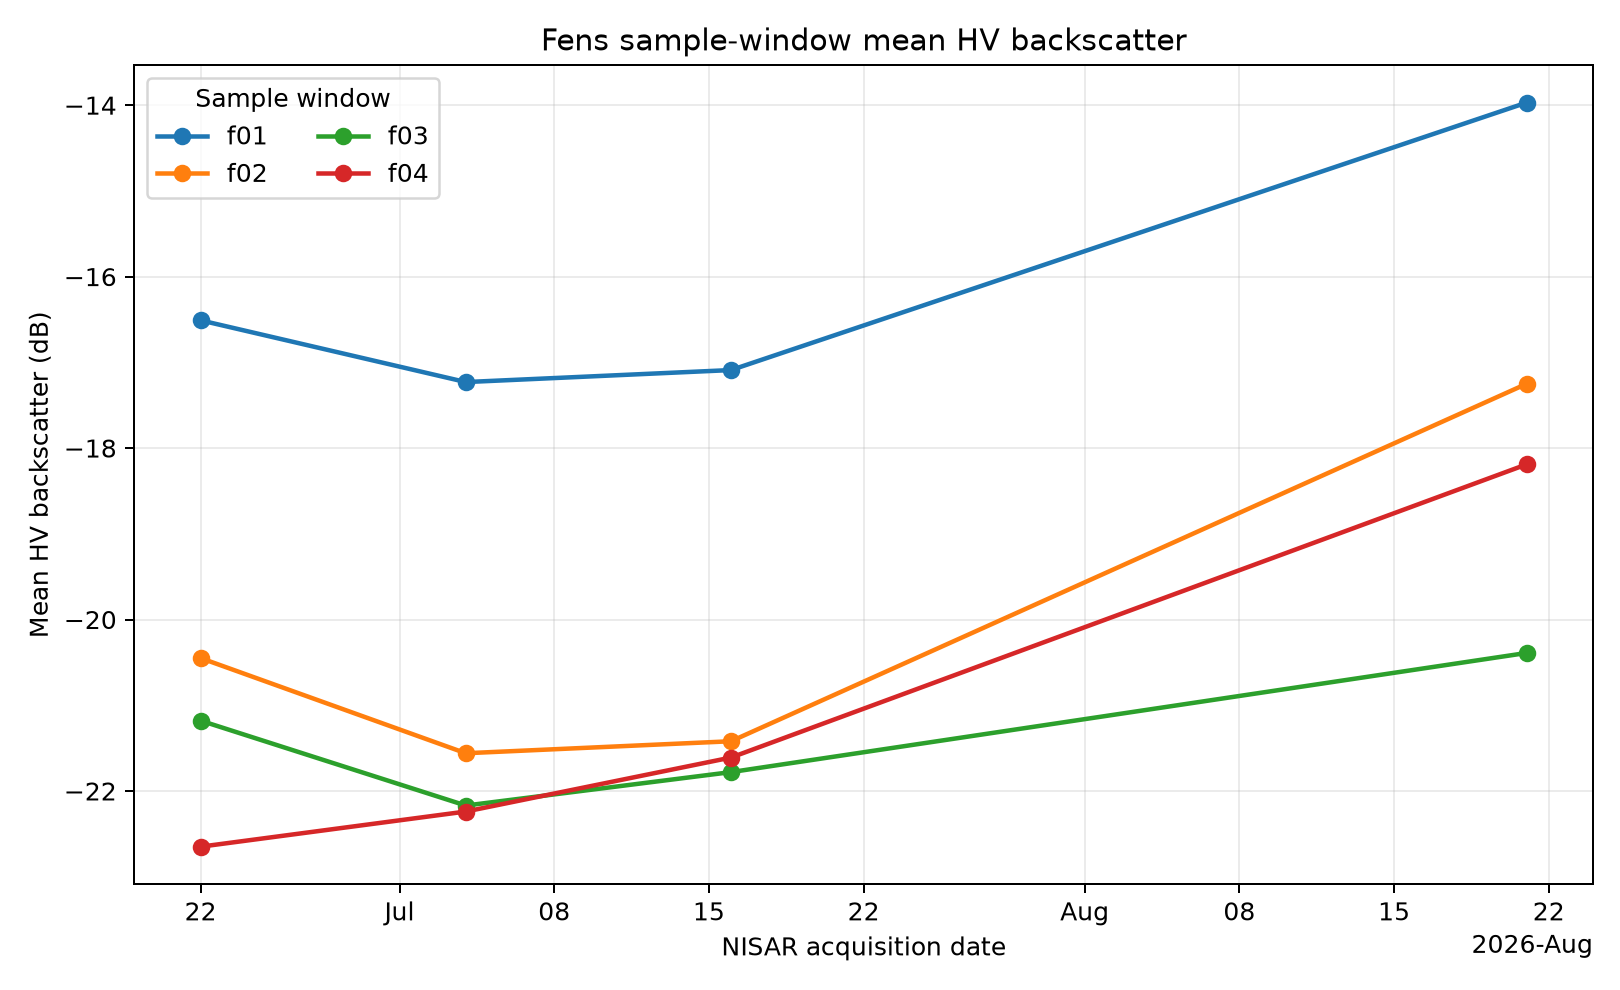
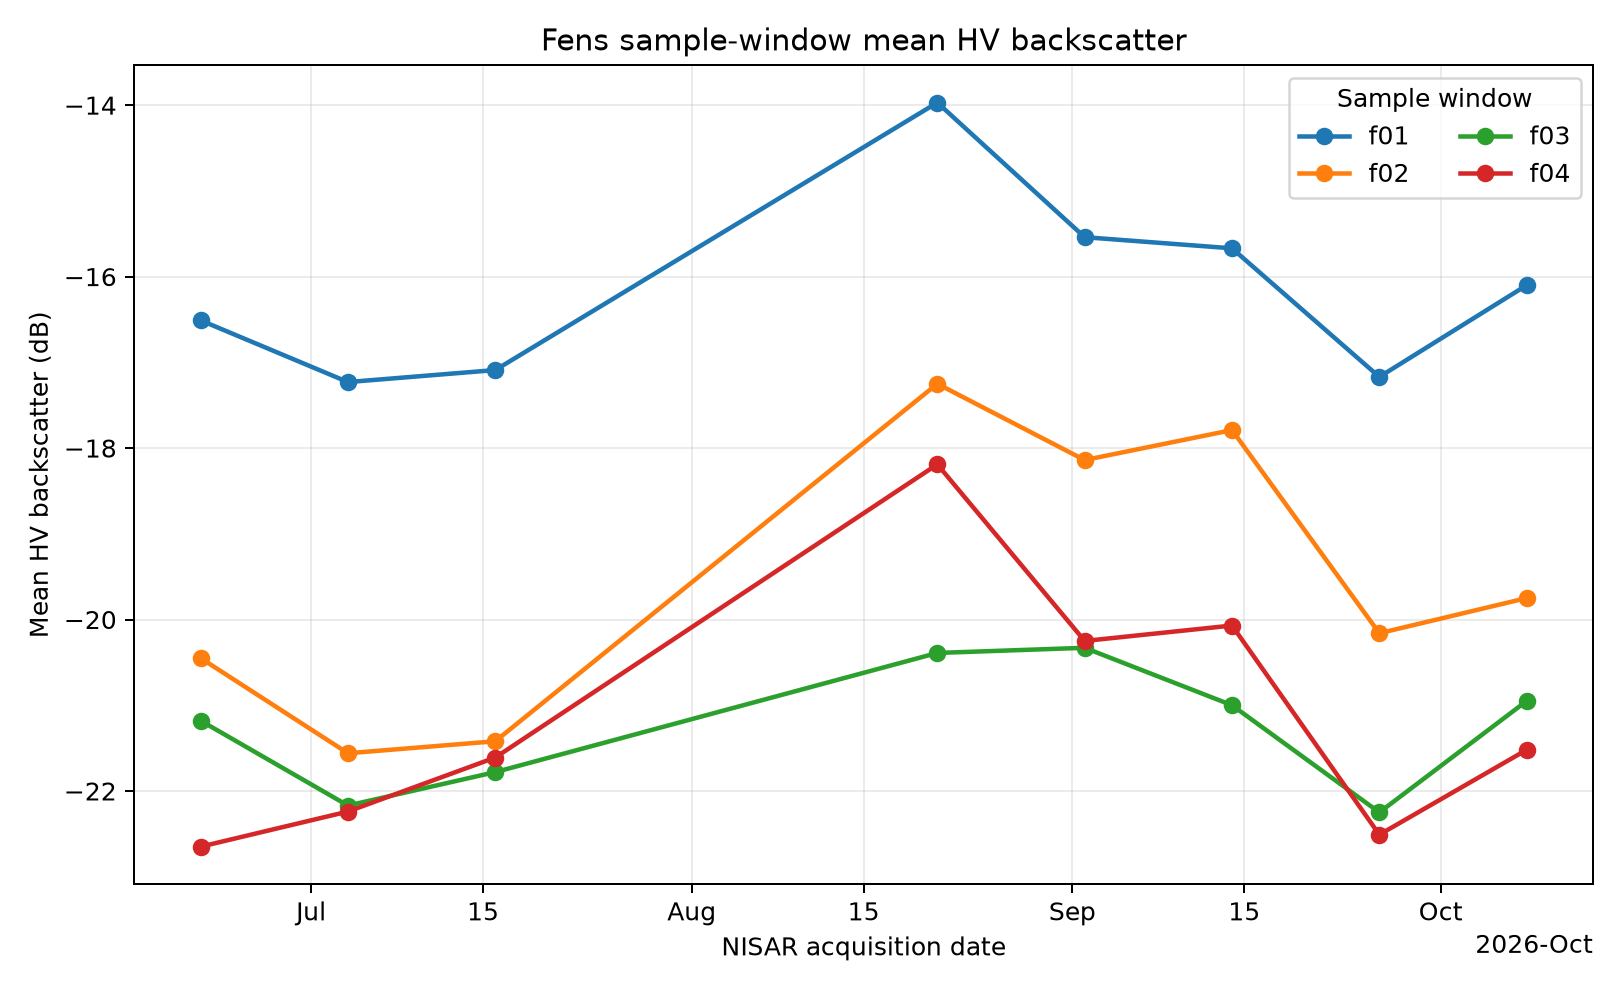
[PC7] refresh Fens crop series from eight subsets

diff --git a/pipeline/pc7/analyze_fens_crops.py b/pipeline/pc7/analyze_fens_crops.py
@@ -129,16 +129,19 @@ def analyze():
         plot_series.append(hv_values)
 
     granules = [str(record["granule"].item()) for record in records]
+    first_date, last_date = dates[0], dates[-1]
+    endpoint_changes = [values[-1] - values[0] for values in plot_series]
+    min_change, max_change = min(endpoint_changes), max(endpoint_changes)
     method = (
-        "Four provisional NISAR GCOV acquisitions (CRID P05023) were averaged in four separated 480 m by 480 m windows (12 by 12 40 m pixels) selected from field-like patterns in the local median-HV image; centers are WGS84 coordinates and window bounds are EPSG:32630. "
-        "HV decreased through July and rose in August in windows 1 and 2, varied less before rising in window 3, and rose across all four dates in window 4; no uniform harvest or tillage signature is established. "
-        "These four sparse dates cannot attribute backscatter changes to harvest or tillage, and the windows are sampling rectangles rather than verified cadastral field polygons."
+        f"Eight provisional NISAR GCOV acquisitions (CRID P05023; {first_date} to {last_date}) were averaged in four separated 480 m by 480 m windows (12 by 12 40 m pixels) selected from field-like patterns in the local median-HV image; window centers are WGS84 and bounds are EPSG:32630. "
+        f"Across all four windows, final-date HV is {min_change:.1f} to {max_change:.1f} dB less negative than first-date HV, although intermediate values are non-monotonic; no shared net HV decline is seen across this series. "
+        "These observations do not establish a harvest or tillage effect, and the windows are sampling rectangles rather than verified cadastral field polygons."
     )
     result = {
         "dates": dates,
         "fields": fields,
         "quality": "provisional",
-        "quality_note": "Four local NISAR GCOV P05023 provisional acquisitions from 2026-06-22 through 2026-08-21. The 480 m sample windows are field-like sampling areas, not verified parcel boundaries; sparse dates limit crop-phenology interpretation.",
+        "quality_note": f"{len(dates)} local NISAR GCOV P05023 provisional acquisitions from {first_date} through {last_date}. The 480 m sample windows are field-like sampling areas, not verified parcel boundaries; sparse dates limit crop-phenology interpretation.",
         "source": "NASA-ISRO NISAR Level-2 PR GCOV Provisional (CRID P05023), local PC2 subsets under pipeline/subset/fens_gcov/.",
         "granules": granules,
         "method": method,

diff --git a/docs/qa/PC7.md b/docs/qa/PC7.md
@@ -140,15 +140,17 @@ Kontroller: 0–150% pompalama serisinde çökme monoton arttı; kalıcı çökm
 
 ## 5. Q10 Fens GCOV zaman serisi (yerel kesitler, offline)
 
-Son `git pull --rebase origin main` ile gelen PC2 kesitleri: 2026-06-22, 2026-07-04, 2026-07-16 ve 2026-08-21. Dördü de `quality: provisional`, aynı EPSG:32630 40 m ızgarasında ve HH/HV dB alanları içeriyor. `pipeline/pc7/analyze_fens_crops.py` her tarihte aynı dört ayrı 12 × 12 piksel (480 m × 480 m) pencerenin sonlu HH/HV piksellerini ortaladı; koordinatlar pencerelerin merkezinden dönüştürüldü.
+Son pull'da sekiz PC2 kesiti bulundu: 2026-06-22, 07-04, 07-16, 08-21, 09-02, 09-14, 09-26 ve 10-08. Hepsinin `quality` değeri `provisional`; aynı EPSG:32630 40 m ızgarasında HH/HV dB alanları var. `pipeline/pc7/analyze_fens_crops.py` her tarihte aynı dört ayrı 12 × 12 piksel (480 m × 480 m) pencerenin sonlu HH/HV piksellerini ortaladı; koordinatlar pencere merkezlerinden dönüştürüldü.
 
-| Örnek pencere | 22 Jun HV (dB) | 4 Jul HV (dB) | 16 Jul HV (dB) | 21 Aug HV (dB) |
-|---|---:|---:|---:|---:|
-| f01 | −16.51 | −17.23 | −17.09 | −13.97 |
-| f02 | −20.45 | −21.56 | −21.42 | −17.25 |
-| f03 | −21.18 | −22.17 | −21.78 | −20.39 |
-| f04 | −22.65 | −22.24 | −21.61 | −18.19 |
+HV dizileri, tarihler yukarıdaki sırada (dB):
 
-f01 ve f02 Temmuz boyunca daha negatif, Ağustos'ta daha az negatif oldu; f03 daha küçük değişti ve Ağustos'ta yükseldi; f04 dört tarihte de daha az negatif değerlere ilerledi. Bu dört seyrek tarihte tüm pencereler için hasat veya sürüme bağlanabilecek ortak bir HV düşüşü görülmüyor. Pencereler GCOV dokusundan seçilmiş örnekleme kareleri; kadastro parseli olarak doğrulanmadı.
+| Örnek pencere | HV zaman serisi (dB) | İlk–son değişim (dB) |
+|---|---|---:|
+| f01 | −16.51, −17.23, −17.09, −13.97, −15.54, −15.67, −17.17, −16.10 | +0.41 |
+| f02 | −20.45, −21.56, −21.42, −17.25, −18.14, −17.79, −20.16, −19.75 | +0.70 |
+| f03 | −21.18, −22.17, −21.78, −20.39, −20.33, −21.00, −22.25, −20.95 | +0.23 |
+| f04 | −22.65, −22.24, −21.61, −18.19, −20.25, −20.07, −22.51, −21.52 | +1.13 |
+
+Dört pencerede de ilk tarihten son tarihe net HV düşüşü yok (son değerler 0.23–1.13 dB daha az negatif); ara tarihlerde ise yön değişiyor. Bu seri tek başına hasat veya sürüm etkisini kanıtlamıyor. Pencereler GCOV dokusundan seçilmiş örnekleme kareleri; kadastro parseli olarak doğrulanmadı.
 
 Çıktılar: `data/fens/crops.json` ve `data/fens/hv_timeseries.png`. JSON parse edildi; tarihler sıralı/benzersiz, alan dizileri tarihlerle aynı uzunlukta ve sonlu, kalite etiketi provisional, yöntem üç cümle. Grafik dosyası oluşturulup görsel olarak açıldı. ASF sorgusu veya veri indirme yapılmadı.

diff --git a/status/PC7.md b/status/PC7.md
@@ -5,10 +5,9 @@
 - ASF araması: platform=NISAR, processingLevel=GCOV, bbox [-0.3, 52.4, 0.4, 52.9], başlangıç 2026-06-17; 49 P05023 GCOV ürünü HH/HV ile eşleşti.
 - Tekrarlı seri: path 52, frame 61, 10 benzersiz tarih: 2026-06-17–2026-10-15. Granül listesi `pipeline/pc7/fens_gcov_catalog.json` içinde.
 - Doğrulama: `pipeline/pc7/search_fens_gcov.py` çalıştırıldı; katalog JSON olarak tekrar açılıp parse edildi.
-- Q10: PC2'nin dört yerel provisional kesiti (2026-06-22, 07-04, 07-16, 08-21) işlendi; 4 adet 480 m kare örnekleme penceresinin HH/HV dB ortalaması `data/fens/crops.json` ve `data/fens/hv_timeseries.png` içinde.
-- Sınırlama: Dört seyrek tarih hasat/sürüm etkisini kanıtlamıyor; pencereler doğrulanmış kadastro parselleri değil. Push öncesi son rebase'te 2026-09-02, 09-14, 09-26 ve 10-08 kesitleri geldi; mevcut Q10 çıktısına henüz dahil değiller. İndirme yapılmadı.
+- Q10: Sekiz yerel provisional kesit (2026-06-22–2026-10-08) işlendi; 4 adet 480 m kare örnekleme penceresinin HH/HV dB ortalaması `data/fens/crops.json` ve `data/fens/hv_timeseries.png` içinde.
+- Sınırlama: Sekiz tarih hasat/sürüm etkisini kanıtlamıyor; pencereler doğrulanmış kadastro parselleri değil. Yeni kesitler gelirse seri güncellenecek. İndirme yapılmadı.
 - QA: Göreli yollar, veri sözleşmesi, görünür İngilizce metin ve oyun modeli çevrimdışı kontrol edildi; sonuçlar `docs/qa/PC7.md` içinde.
 - Kaynak: https://api.daac.asf.alaska.edu/services/search/param (ASF SearchAPI)
 - AI: Codex → ASF sorgu scripti ve veri kataloğu.
 - BLOCKED: yok
-- BLOCKED: git push origin main → rejected (fetch first); tek pull --rebase sonrası push yeniden reddedildi. RULES §2.4 gereği burada duruldu.
